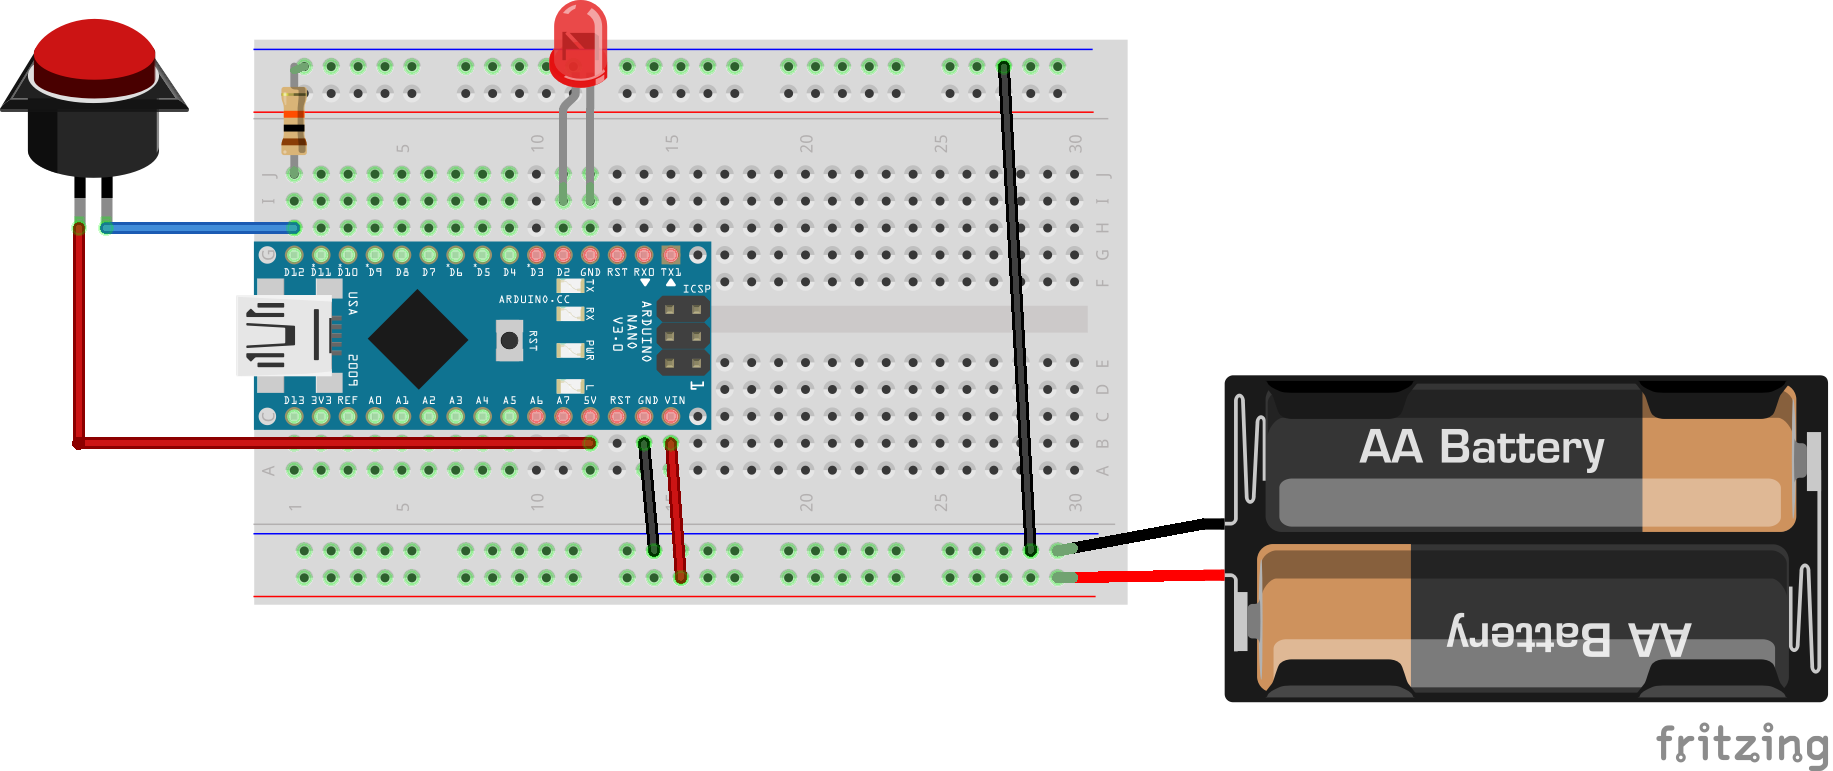
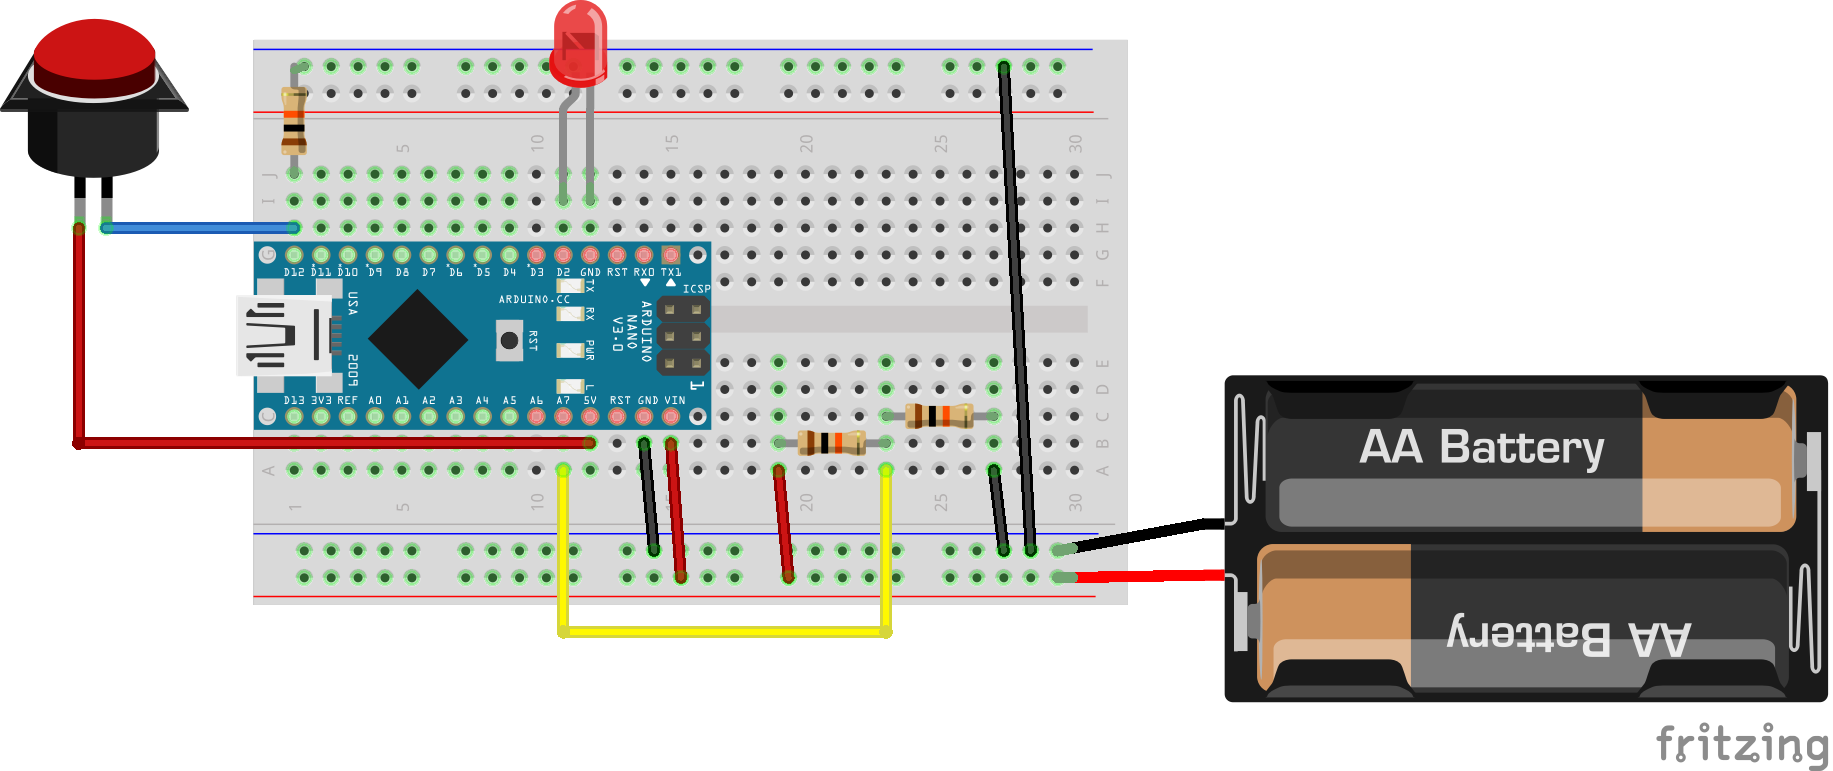
update schematic for low battery

Changed region(s): [[0.2799, 0.4669, 0.5597, 0.8405]]

diff --git a/README.md b/README.md
@@ -11,5 +11,9 @@ Requires [`SimpleTimer`](http://playground.arduino.cc/Code/SimpleTimer). The cir
 * LED attached from pin D2 to ground
 * pushbutton attached from pin D12 to +5V
 * 10K resistor attached from pin D12 to ground
+* Two 10k resistors in series
+    * One end goes to Battery - and also to Arduino GND
+    * The other goes to Battery + and also to Arduino Vin
+    * The middle (connection between two resistors) goes to Arduino A7
 
 ![schematic](schematic.png)
